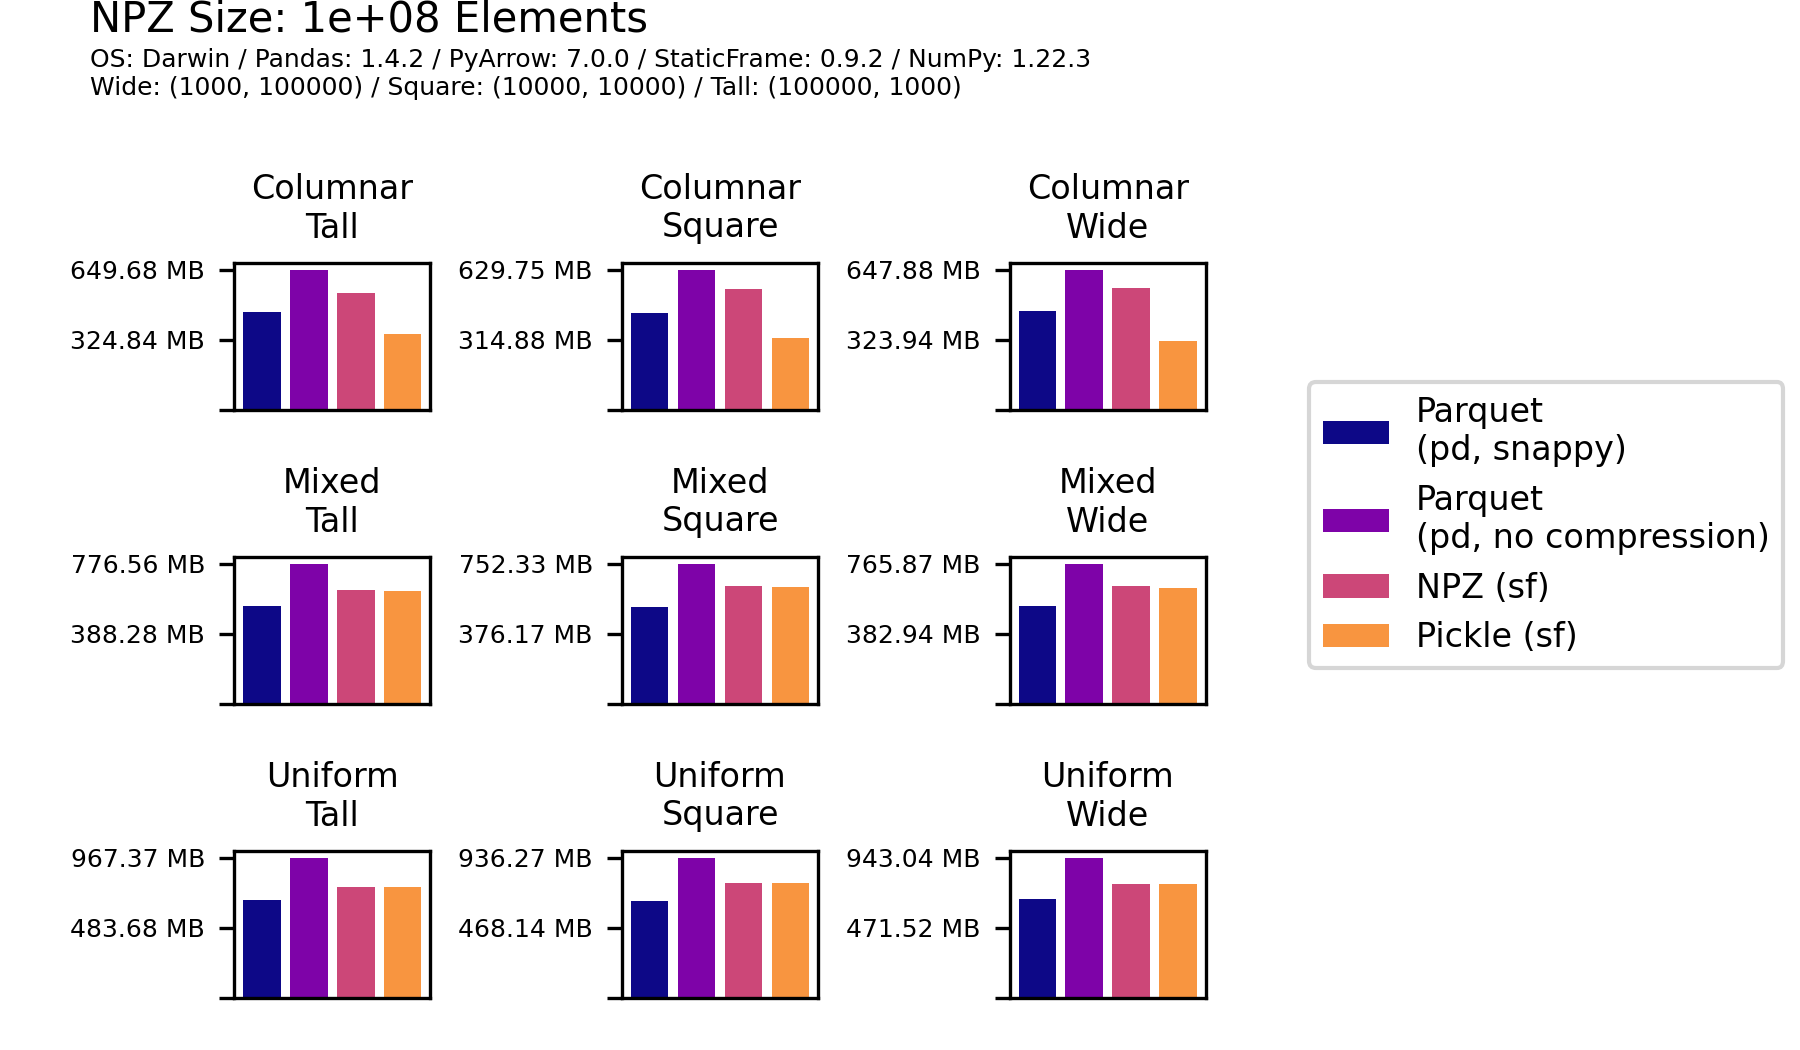
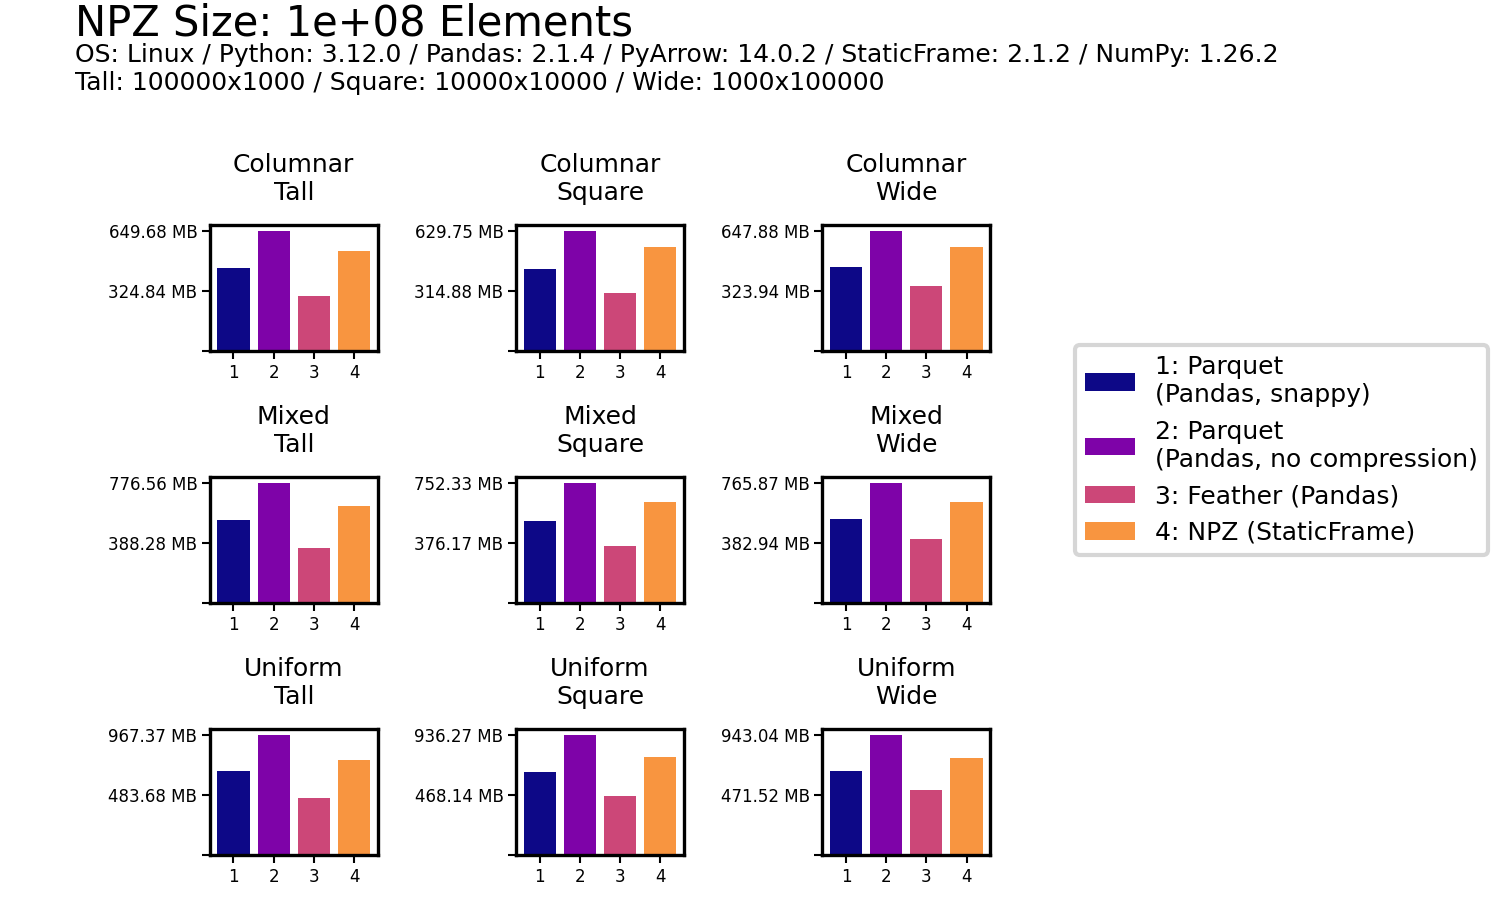
updated chart labelling

diff --git a/doc/source/articles/serialize.py b/doc/source/articles/serialize.py
@@ -279,9 +279,7 @@ def seconds_to_display(seconds: float, number: int) -> str:
 
 def get_versions() -> str:
     import platform
-
     import pyarrow
-
     return f'OS: {platform.system()} / Python: {platform.python_version()} / Pandas: {pd.__version__} / PyArrow: {pyarrow.__version__} / StaticFrame: {sf.__version__} / NumPy: {np.__version__}\n'
 
 FIXTURE_SHAPE_MAP = {
@@ -459,14 +457,14 @@ def plot_size(frame: sf.Frame):
     name_replace = {
         'parquet': 'Parquet\n(Pandas, snappy)',
         'parquet_noc': 'Parquet\n(Pandas, no compression)',
-        # PDReadFeather.__name__: 'Feather (pd)',
+        'feather': 'Feather (Pandas)',
         'pickle': 'Pickle (StaticFrame)',
         'npz': 'NPZ (StaticFrame)',
         'npy': 'NPY (StaticFrame)',
     }
 
     fixture_total = len(frame)
-    names = ('parquet', 'parquet_noc', 'npz', 'pickle')
+    names = ('parquet', 'parquet_noc', 'feather', 'npz')
     name_total = len(names)
 
     fig, axes = plt.subplots(3, 3)
@@ -484,16 +482,20 @@ def plot_size(frame: sf.Frame):
 
         # ax = axes[sl_to_pos[shape_label]][cl_to_pos[dtype_label]]
         ax = axes[cl_to_pos[dtype_label]][sl_to_pos[shape_label]]
-
-        x = np.arange(name_total)
-    #     names_display = [name_replace[l] for l in names]
         results = row[list(names)].values
-        post = ax.bar(names, results, color=color)
-        shape_key = f"{row['shape'][0]}x{row['shape'][1]}"
-        title = f'{dtype_label.title()}\n{FIXTURE_SHAPE_MAP[shape_key]}'
-        # title = f'{cat_io.title()}\n{cat_dtype.title()}\n{FIXTURE_SHAPE_MAP[fixture_label]}'
 
-        ax.set_title(title, fontsize=8)
+        x_labels = [f'{i}: {name_replace[name]}' for i, name in
+                zip(range(1, name_total + 1), names)
+                ]
+
+        x_tick_labels = [str(l + 1) for l in range(len(x_labels))]
+        x = np.arange(name_total)
+        x_bar = ax.bar(x_labels, results, color=color)
+
+        shape_key = f"{row['shape'][0]}x{row['shape'][1]}"
+        plot_title = f'{dtype_label.title()}\n{FIXTURE_SHAPE_MAP[shape_key]}'
+
+        ax.set_title(plot_title, fontsize=6)
         ax.set_box_aspect(0.75) # makes taller tan wide
         size_max = results.max()
         ax.set_yticks([0, size_max * 0.5, size_max])
@@ -502,23 +504,42 @@ def plot_size(frame: sf.Frame):
                 bytes_to_size_label(size_max),
                 ], fontsize=6)
         ax.tick_params(
-                axis='x',
-                which='both',
-                bottom=False,
-                top=False,
-                labelbottom=False,
-                )
+            axis="y",
+            length=2,
+            width=0.5,
+            pad=1,
+            labelsize=4,
+            )
+        ax.set_xticks(x)
+        ax.set_xticklabels(x_tick_labels)
+        ax.tick_params(
+            axis="x",
+            length=2,
+            width=0.5,
+            pad=1,
+            labelsize=4,
+            )
 
-    fig.set_size_inches(6, 3.5) # width, height
-    fig.legend(post, [name_replace[n] for n in names], loc='center right', fontsize=8)
+    fig.set_size_inches(5, 3) # width, height
+    fig.legend(x_bar, x_labels, loc='center right', fontsize=6)
     # horizontal, vertical
     count = ff_cached(FF_tall_uniform).size
-    fig.text(.05, .97, f'NPZ Size: {count:.0e} Elements', fontsize=10)
-    fig.text(.05, .91, get_versions(), fontsize=6)
+    fig.text(.05, .96, f'NPZ Size: {count:.0e} Elements', fontsize=10)
+    fig.text(.05, .90, get_versions(), fontsize=6)
     # get fixtures size reference
-    shape_map = {shape: FIXTURE_SHAPE_MAP[f'{shape[0]}x{shape[1]}'] for shape in frame['shape'].unique()}
+
+    shape_order = [] #frame[['shape']].to_frame_go()
+    cl = next(iter(cl_to_pos.keys())) # get one to draw examples
+    for shape_label in sl_to_pos.keys():
+        shape_order.append(frame.loc[f'{shape_label}_{cl}', 'shape'])
+
+    # import ipdb; ipdb.set_trace()
+    shape_map = {f'{shape[0]}x{shape[1]}':
+            FIXTURE_SHAPE_MAP[f'{shape[0]}x{shape[1]}']
+            for shape in shape_order}
+
     shape_msg = ' / '.join(f'{v}: {k}' for k, v in shape_map.items())
-    fig.text(.05, .91, shape_msg, fontsize=6)
+    fig.text(.05, .90, shape_msg, fontsize=6)
 
     fp = '/tmp/serialize-size.png'
     plt.subplots_adjust(
@@ -526,7 +547,7 @@ def plot_size(frame: sf.Frame):
             bottom=0.05,
             right=0.75,
             top=0.75,
-            wspace=-0.2, # width
+            wspace=-0.3, # width
             hspace=1,
             )
     # plt.rcParams.update({'font.size': 22})
@@ -571,6 +592,13 @@ def get_sizes():
         record.append(size_parquet_noc)
         record.append(bytes_to_size_label(size_parquet_noc))
 
+        _, fp = tempfile.mkstemp(suffix='.feather')
+        df.to_feather(fp)
+        size_feather = os.path.getsize(fp)
+        os.unlink(fp)
+        record.append(size_feather)
+        record.append(bytes_to_size_label(size_feather))
+
         _, fp = tempfile.mkstemp(suffix='.npz')
         f.to_npz(fp, include_columns=True)
         size_npz = os.path.getsize(fp)
@@ -578,17 +606,17 @@ def get_sizes():
         record.append(size_npz)
         record.append(bytes_to_size_label(size_npz))
 
-        _, fp = tempfile.mkstemp(suffix='.pickle')
-        file = open(fp, 'wb')
-        pickle.dump(f, file)
-        file.close()
-        size_pickle = os.path.getsize(fp)
-        os.unlink(fp)
-        record.append(size_pickle)
-        record.append(bytes_to_size_label(size_pickle))
+        # _, fp = tempfile.mkstemp(suffix='.pickle')
+        # file = open(fp, 'wb')
+        # pickle.dump(f, file)
+        # file.close()
+        # size_pickle = os.path.getsize(fp)
+        # os.unlink(fp)
+        # record.append(size_pickle)
+        # record.append(bytes_to_size_label(size_pickle))
 
-        record.append(round(size_npz / size_parquet, 3))
-        record.append(round(size_npz / size_parquet_noc, 3))
+        # record.append(round(size_npz / size_parquet, 3))
+        # record.append(round(size_npz / size_parquet_noc, 3))
 
         records.append(record)
 
@@ -599,12 +627,14 @@ def get_sizes():
             'parquet_hr', # human readable
             'parquet_noc',
             'parquet_noc_hr',
+            'feather',
+            'feather_hr',
             'npz',
             'npz_hr',
-            'pickle',
-            'pickle_hr',
-            'npz/parquet',
-            'npz/parquet_noc'
+            # 'pickle',
+            # 'pickle_hr',
+            # 'npz/parquet',
+            # 'npz/parquet_noc'
             )).set_index('fixture', drop=True)
 
     print(f.display_wide())
@@ -742,8 +772,8 @@ def run_test(
 
 if __name__ == '__main__':
     # pandas_serialize_test()
-    # get_sizes()
-    run_test(number=NUMBER, include_read=True, include_write=False, fp='/tmp/serialize-read.png')
-    run_test(number=NUMBER, include_read=False, include_write=True, fp='/tmp/serialize-write.png')
+    get_sizes()
+    # run_test(number=NUMBER, include_read=True, include_write=False, fp='/tmp/serialize-read.png')
+    # run_test(number=NUMBER, include_read=False, include_write=True, fp='/tmp/serialize-write.png')
 
 
